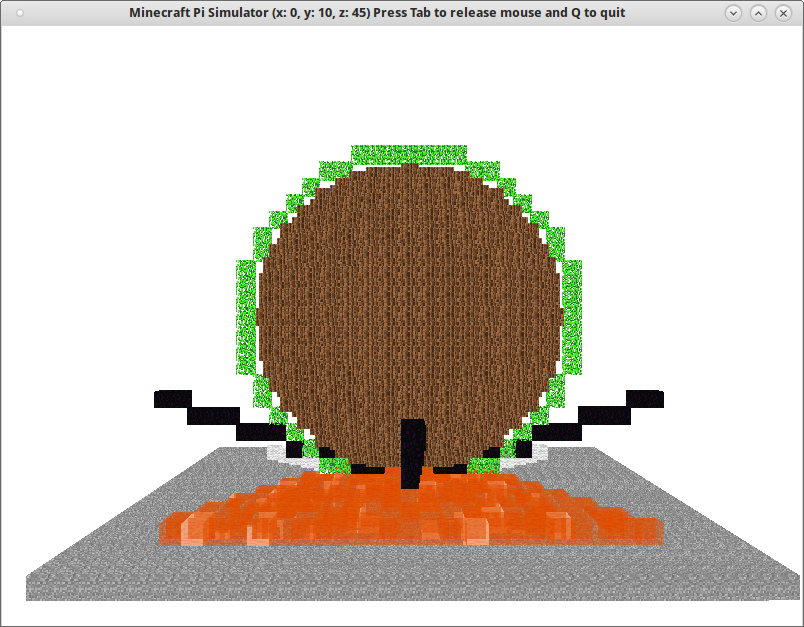
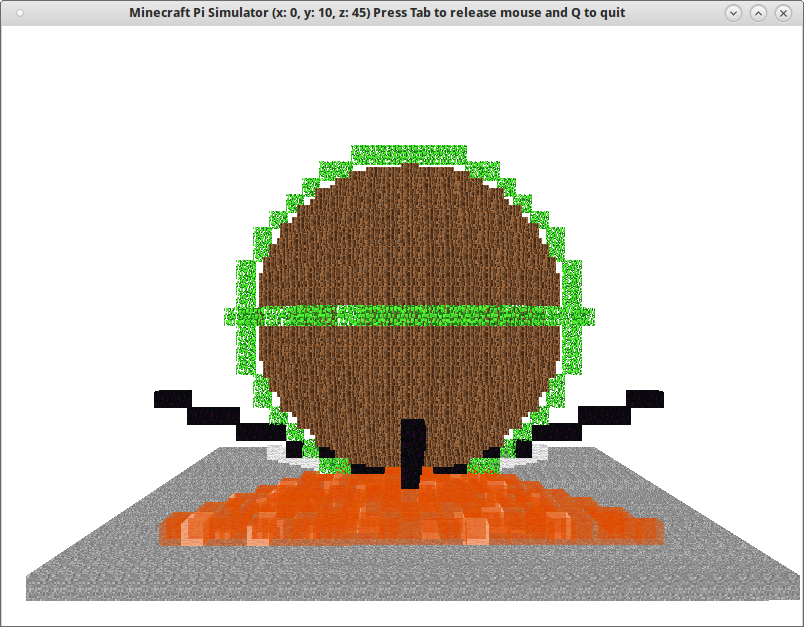
Restrukturyzacja i uproszczenie kodu oraz aktualizacja scenariusza MC Pi Figury 2D i 3D

Changed region(s): [[0.2799, 0.4848, 0.7463, 0.5455]]

diff --git a/docs/mcpi/figury/mcsim-fig.py b/docs/mcpi/figury/mcsim-fig.py
@@ -1,50 +1,42 @@
 #!/usr/bin/env python
 # -*- coding: utf-8 -*-
 
-import sys
 import os
 import local.minecraft as minecraft  # import modułu minecraft
 import local.block as block  # import modułu block
+import local.minecraftstuff as mcstuff  # import biblioteki do rysowania figur
+from local.vec3 import Vec3  # klasa reprezentująca punkt w MC
 
 os.environ["USERNAME"] = "Steve"  # nazwa użytkownika
 os.environ["COMPUTERNAME"] = "mykomp"  # nazwa komputera
 
-# utworzenie połaczenia z symulatorem
-mc = minecraft.Minecraft.create("")
+mc = minecraft.Minecraft.create("")  # połaczenie z symulatorem
+figura = mcstuff.MinecraftDrawing(mc)  # obiekt do rysowania kształtów
 
 
 def plac(x, y, z, roz=10, gracz=False):
-    """Funkcja wypełnia sześcienny obszar od podanej pozycji
-    powietrzem i opcjonalnie umieszcza gracza w środku.
+    """
+    Funkcja tworzy podłoże i wypełnia sześcienny obszar od podanej pozycji,
+    opcjonalnie umieszcza gracza w środku.
     Parametry: x, y, z - współrzędne pozycji początkowej,
     roz - rozmiar wypełnianej przestrzeni,
     gracz - czy umieścić gracza w środku
     Wymaga: globalnych obiektów mc i block.
     """
 
-    kamien = block.STONE
-    powietrze = block.AIR
+    podloga = block.STONE
+    wypelniacz = block.AIR
 
-    # kamienna podłoże
-    mc.setBlocks(x, y - 1, z, x + roz, y - 1, z + roz, kamien)
-    # czyszczenie
-    mc.setBlocks(x, y, z, x + roz, y + roz, z + roz, powietrze)
+    # podloga i czyszczenie
+    mc.setBlocks(x, y - 1, z, x + roz, y - 1, z + roz, podloga)
+    mc.setBlocks(x, y, z, x + roz, y + roz, z + roz, wypelniacz)
     # umieść gracza w środku
     if gracz:
         mc.player.setPos(x + roz / 2, y + roz / 2, z + roz / 2)
 
 
-def main(args):
-    mc.postToChat("Czesc! Tak dziala MC chat!")  # wysłanie komunikatu do mc
-    plac(-15, 0, -15, 30)
-
-    from time import sleep
-    import local.minecraftstuff as mcstuff
-    from local.vec3 import Vec3  # klasa reprezentująca punkt 3D
-
-    figura = mcstuff.MinecraftDrawing(mc)  # obiekt do rysowania kształtów
-
-    # LINIE
+def linie():
+    # Funkcja rysuje linie
     # tuple z współrzędnymi punktów
     punkty1 = ((-10, 0, -10), (10, 0, -10), (10, 0, 10), (-10, 0, 10))
     punkty2 = ((-15, 5, 0), (15, 5, 0), (0, 5, 15), (0, 5, -15))
@@ -58,23 +50,36 @@ def main(args):
         p2 = Vec3(x, y, z)  # punkt końcowy
         figura.drawLine(p1.x, p1.y, p1.z, p2.x, p2.y, p2.z, block.OBSIDIAN)
 
-    # KOŁO
-    sleep(2)  # poczekaj 2 sekundy
-    figura.drawCircle(0, 10, 0, 10, block.LEAVES, 2)
 
-    # KULA
-    sleep(2)  # poczekaj 2 sekundy
-    figura.drawSphere(0, 10, 0, 9, block.WOOD, 2)
+def kolo(x, y, z, r):
+    # Funkcja rysuje koło pionowe i poziome o środku x, y, z i promieniu r
+    figura.drawCircle(x, y, z, r, block.LEAVES, 2)
+    figura.drawHorizontalCircle(x, y, z, r, block.LEAVES, 2)
 
-    # TRÓJKĄT
+
+def kula(x, y, z, r):
+    # Funkcja rysuje kulę o środku x, y, z i promieniu r
+    figura.drawSphere(x, y, z, r, block.WOOD, 2)
+
+
+def ksztalt():
+    # Funkcja łączy podane w liście wierzchołki i opcjonalnie wypełnia figurę
     ksztalt = []  # lista punktów
-    ksztalt.append(Vec3(-11, 0, 11))
-    ksztalt.append(Vec3(11, 0, 11))
-    ksztalt.append(Vec3(0, 0, -11))
+    ksztalt.append(Vec3(-11, 0, 11))  # współrzędne 1 wierzchołka
+    ksztalt.append(Vec3(11, 0, 11))  # współrzędne 2 wierzchołka
+    ksztalt.append(Vec3(0, 0, -11))  # współrzędne 3 wierzchołka
     figura.drawFace(ksztalt, True, block.SANDSTONE, 2)
 
+
+def main():
+    mc.postToChat("Biblioteka minecraftstuff")  # wysłanie komunikatu do mc
+    plac(-15, 0, -15, 30)
+    linie()
+    kolo(0, 10, 0, 10)
+    kula(0, 10, 0, 9)
+    ksztalt()
     return 0
 
 
 if __name__ == '__main__':
-    sys.exit(main(sys.argv))
+    main()

diff --git a/docs/mcpi/figury/mcsim-fig01.py b/docs/mcpi/figury/mcsim-fig01.py
@@ -1,50 +1,42 @@
 #!/usr/bin/env python
 # -*- coding: utf-8 -*-
 
-import sys
 import os
 import local.minecraft as minecraft  # import modułu minecraft
 import local.block as block  # import modułu block
+import local.minecraftstuff as mcstuff  # import biblioteki do rysowania figur
+from local.vec3 import Vec3  # klasa reprezentująca punkt w MC
 
 os.environ["USERNAME"] = "Steve"  # nazwa użytkownika
 os.environ["COMPUTERNAME"] = "mykomp"  # nazwa komputera
 
-# utworzenie połaczenia z symulatorem
-mc = minecraft.Minecraft.create("")
+mc = minecraft.Minecraft.create("")  # połaczenie z symulatorem
+figura = mcstuff.MinecraftDrawing(mc)  # obiekt do rysowania kształtów
 
 
 def plac(x, y, z, roz=10, gracz=False):
-    """Funkcja wypełnia sześcienny obszar od podanej pozycji
-    powietrzem i opcjonalnie umieszcza gracza w środku.
+    """
+    Funkcja tworzy podłoże i wypełnia sześcienny obszar od podanej pozycji,
+    opcjonalnie umieszcza gracza w środku.
     Parametry: x, y, z - współrzędne pozycji początkowej,
     roz - rozmiar wypełnianej przestrzeni,
     gracz - czy umieścić gracza w środku
     Wymaga: globalnych obiektów mc i block.
     """
 
-    kamien = block.STONE
-    powietrze = block.AIR
+    podloga = block.STONE
+    wypelniacz = block.AIR
 
-    # kamienna podłoże
-    mc.setBlocks(x, y - 1, z, x + roz, y - 1, z + roz, kamien)
-    # czyszczenie
-    mc.setBlocks(x, y, z, x + roz, y + roz, z + roz, powietrze)
+    # podloga i czyszczenie
+    mc.setBlocks(x, y - 1, z, x + roz, y - 1, z + roz, podloga)
+    mc.setBlocks(x, y, z, x + roz, y + roz, z + roz, wypelniacz)
     # umieść gracza w środku
     if gracz:
         mc.player.setPos(x + roz / 2, y + roz / 2, z + roz / 2)
 
 
-def main(args):
-    mc.postToChat("Czesc! Tak dziala MC chat!")  # wysłanie komunikatu do mc
-    plac(-15, 0, -15, 30)
-
-    from time import sleep
-    import local.minecraftstuff as mcstuff
-    from local.vec3 import Vec3  # klasa reprezentująca punkt 3D
-
-    figura = mcstuff.MinecraftDrawing(mc)  # obiekt do rysowania kształtów
-
-    # LINIE
+def linie():
+    # Funkcja rysuje linie
     # tuple z współrzędnymi punktów
     punkty1 = ((-10, 0, -10), (10, 0, -10), (10, 0, 10), (-10, 0, 10))
     punkty2 = ((-15, 5, 0), (15, 5, 0), (0, 5, 15), (0, 5, -15))
@@ -58,8 +50,14 @@ def main(args):
         p2 = Vec3(x, y, z)  # punkt końcowy
         figura.drawLine(p1.x, p1.y, p1.z, p2.x, p2.y, p2.z, block.OBSIDIAN)
 
+
+def main():
+    mc.postToChat("Biblioteka minecraftstuff")  # wysłanie komunikatu do mc
+    plac(-15, 0, -15, 30)
+    linie()  # wywołanie funkcji linie
+
     return 0
 
 
 if __name__ == '__main__':
-    sys.exit(main(sys.argv))
+    main()

diff --git a/docs/mcpi/figury/index.rst b/docs/mcpi/figury/index.rst
@@ -32,23 +32,26 @@ W pustym pliku :file:`mcsim-fig.py` umieszczamy kod:
     :linenos:
     :lineno-start: 1
     :lines: 1-
-    :emphasize-lines: 41-59
+    :emphasize-lines: 7-8, 14, 38-51, 57
 
 Większość kodu omówiona została w :ref:`Podstawach <mcpiplac>`. W nowym kodzie, który został podświetlony,
-importujemy bibliotekę *minecraftstuff* oraz klasę *Vec3*. Reprezentuje ona pozycję o podanych
+importujemy bibliotekę *minecraftstuff* oraz klasę *Vec3*. Reprezentuje ona punkty o podanych
 współrzędnych w trójwymiarowym świecie MC. Polecenie ``figura = mcstuff.MinecraftDrawing(mc)`` tworzy instancję
 głównej klasy biblioteki, która udostępni jej metody.
 
 Do rysowania linii wykorzystujemy metodę ``drawLine()``, której przekazujemy jako argumenty
 współrzędne punktu początkowego i końcowego, a także typ bloku i ewentualnie podtyp.
-Współrzędne punktów końcowych zostały zapisane w dwóch tuplach (niemodyfikowalnej liście) jako tuple.
-Rozpakowujemy je w pętlach (``x, y, z = punkt``) i przekazujemy do konstruktora klasy ``Vec3``
-(``p2 = Vec3(x, y, z)``).
+Ponieważ chcemy narysować kilka linii wychodzących z tego samego punktu, współrzędne punktów końcowych
+umieszczamy w dwóch tuplach (niemodyfikowalnych listach) jako... tuple.
+W pętlach odczytujemy je (``for punkt in punkty1:``), rozpakowujemy (``x, y, z = punkt``) i przekazujemy do konstruktora omówionej wyżej klasy ``Vec3`` (``p2 = Vec3(x, y, z)``).
+
+Całość omówionego kodu dla przejrzystości umieszczamy w funkcji ``linie()``,
+którą wywołujemy w funkcji głównej i testujemy.
 
 Koło
 =====
 
-Na końcu funkcji ``main()`` dodaj kod:
+Przed funkcją główną ``main()`` wstawiamy kod:
 
 .. raw:: html
 
@@ -57,16 +60,38 @@ Na końcu funkcji ``main()`` dodaj kod:
 .. highlight:: python
 .. literalinclude:: mcsim-fig.py
     :linenos:
-    :lineno-start: 61
-    :lines: 61-63
+    :lineno-start: 54
+    :lines: 54-57
 
-Metoda ``drawCircle()`` pozwala na rysowanie koła. Pierwsze trzy argumenty to współrzędne
-środka, kolejne to: promień, typ i ewentualny podtyp bloku.
+Funkcja ``kolo(x, y, z, r)`` wykorzystuje metodę ``drawCircle()`` do rysowania koła w pionie
+oraz ``drawHorizontalCircle()`` do rysowania koła w poziomie. Obydwie metody pobierają współrzędne
+środka koła, jego promień oraz typ i podtyp bloku, służącego do rysowania.
+
+Umieść wywołanie funkcji, np. ``kolo(0, 10, 0, 10)``, w funkcji głównej i przetestuj.
 
 Kula
 ====
 
-Do funkcji ``main()`` dopisujemy:
+Do skryptu wstawiamy kolejną funkcję przed funkcją ``main()``:
+
+.. raw:: html
+
+    <div class="code_no">Kod nr <script>var code_no = code_no || 1; document.write(code_no++);</script></div>
+
+.. highlight:: python
+.. literalinclude:: mcsim-fig.py
+    :linenos:
+    :lineno-start: 60
+    :lines: 60-62
+
+Metoda ``drawSphere()`` buduje kulę. Pierwsze trzy argumenty to współrzędne środka,
+kolejne to: promień, typ i ewentualny podtyp bloku. Umieść wywołanie funkcji,
+np. ``kula(0, 10, 0, 9)``, w funkcji głównej i przetestuj.
+
+Kształt
+=======
+
+Przed funkcją ``main()`` wstawiamy:
 
 .. raw:: html
 
@@ -76,30 +101,15 @@ Do funkcji ``main()`` dopisujemy:
 .. literalinclude:: mcsim-fig.py
     :linenos:
     :lineno-start: 65
-    :lines: 65-67
+    :lines: 65-71
 
-Metoda ``drawSphere()`` buduje kulę. Pierwsze trzy argumenty to współrzędne
-środka, kolejne to: promień, typ i ewentualny podtyp bloku.
-
-Kształt
-=======
-
-Do funkcji ``main()`` dodajemy kod:
-
-.. raw:: html
-
-    <div class="code_no">Kod nr <script>var code_no = code_no || 1; document.write(code_no++);</script></div>
-
-.. highlight:: python
-.. literalinclude:: mcsim-fig.py
-    :linenos:
-    :lineno-start: 69
-    :lines: 69-74
-
-Powyżej do listy ``ksztalt`` dodajemy kolejne punkty w instrukcjach typu ``ksztalt.append(Vec3(-11, 0, 11))``.
-Na koniec wywołujemy metodę ``drawFace()``, która punkty przekazane w liście łączy
+Chcąc narysować trójkąt do listy do listy ``ksztalt`` dodajemy trzy instancje klasy *Vec3*
+definiujące kolejne wierzchołki: ``ksztalt.append(Vec3(-11, 0, 11))``.
+Do rysowania dowolnych kształtów służy metoda ``drawFace()``, która punkty przekazane w liście łączy
 liniami budowanymi z podanego bloku. Drugi argument, logiczny, decyduje o tym, czy figura
 ma zostać wypełniona (``True``), czy nie (``False``).
+
+Po wywołaniu wszystkich omówionych funkcji możemy zobaczyć w symulatorze poniższą budowlę:
 
 .. figure:: img/mcsim-fig.png
 
@@ -110,4 +120,3 @@ spróbuj zbudować napis "KzK" podobny do pokazanego poniżej.
 Przetestuj swój kod w symulatorze i w Minecrafcie Pi.
 
 .. figure:: img/mcsim-KzK.png
-
